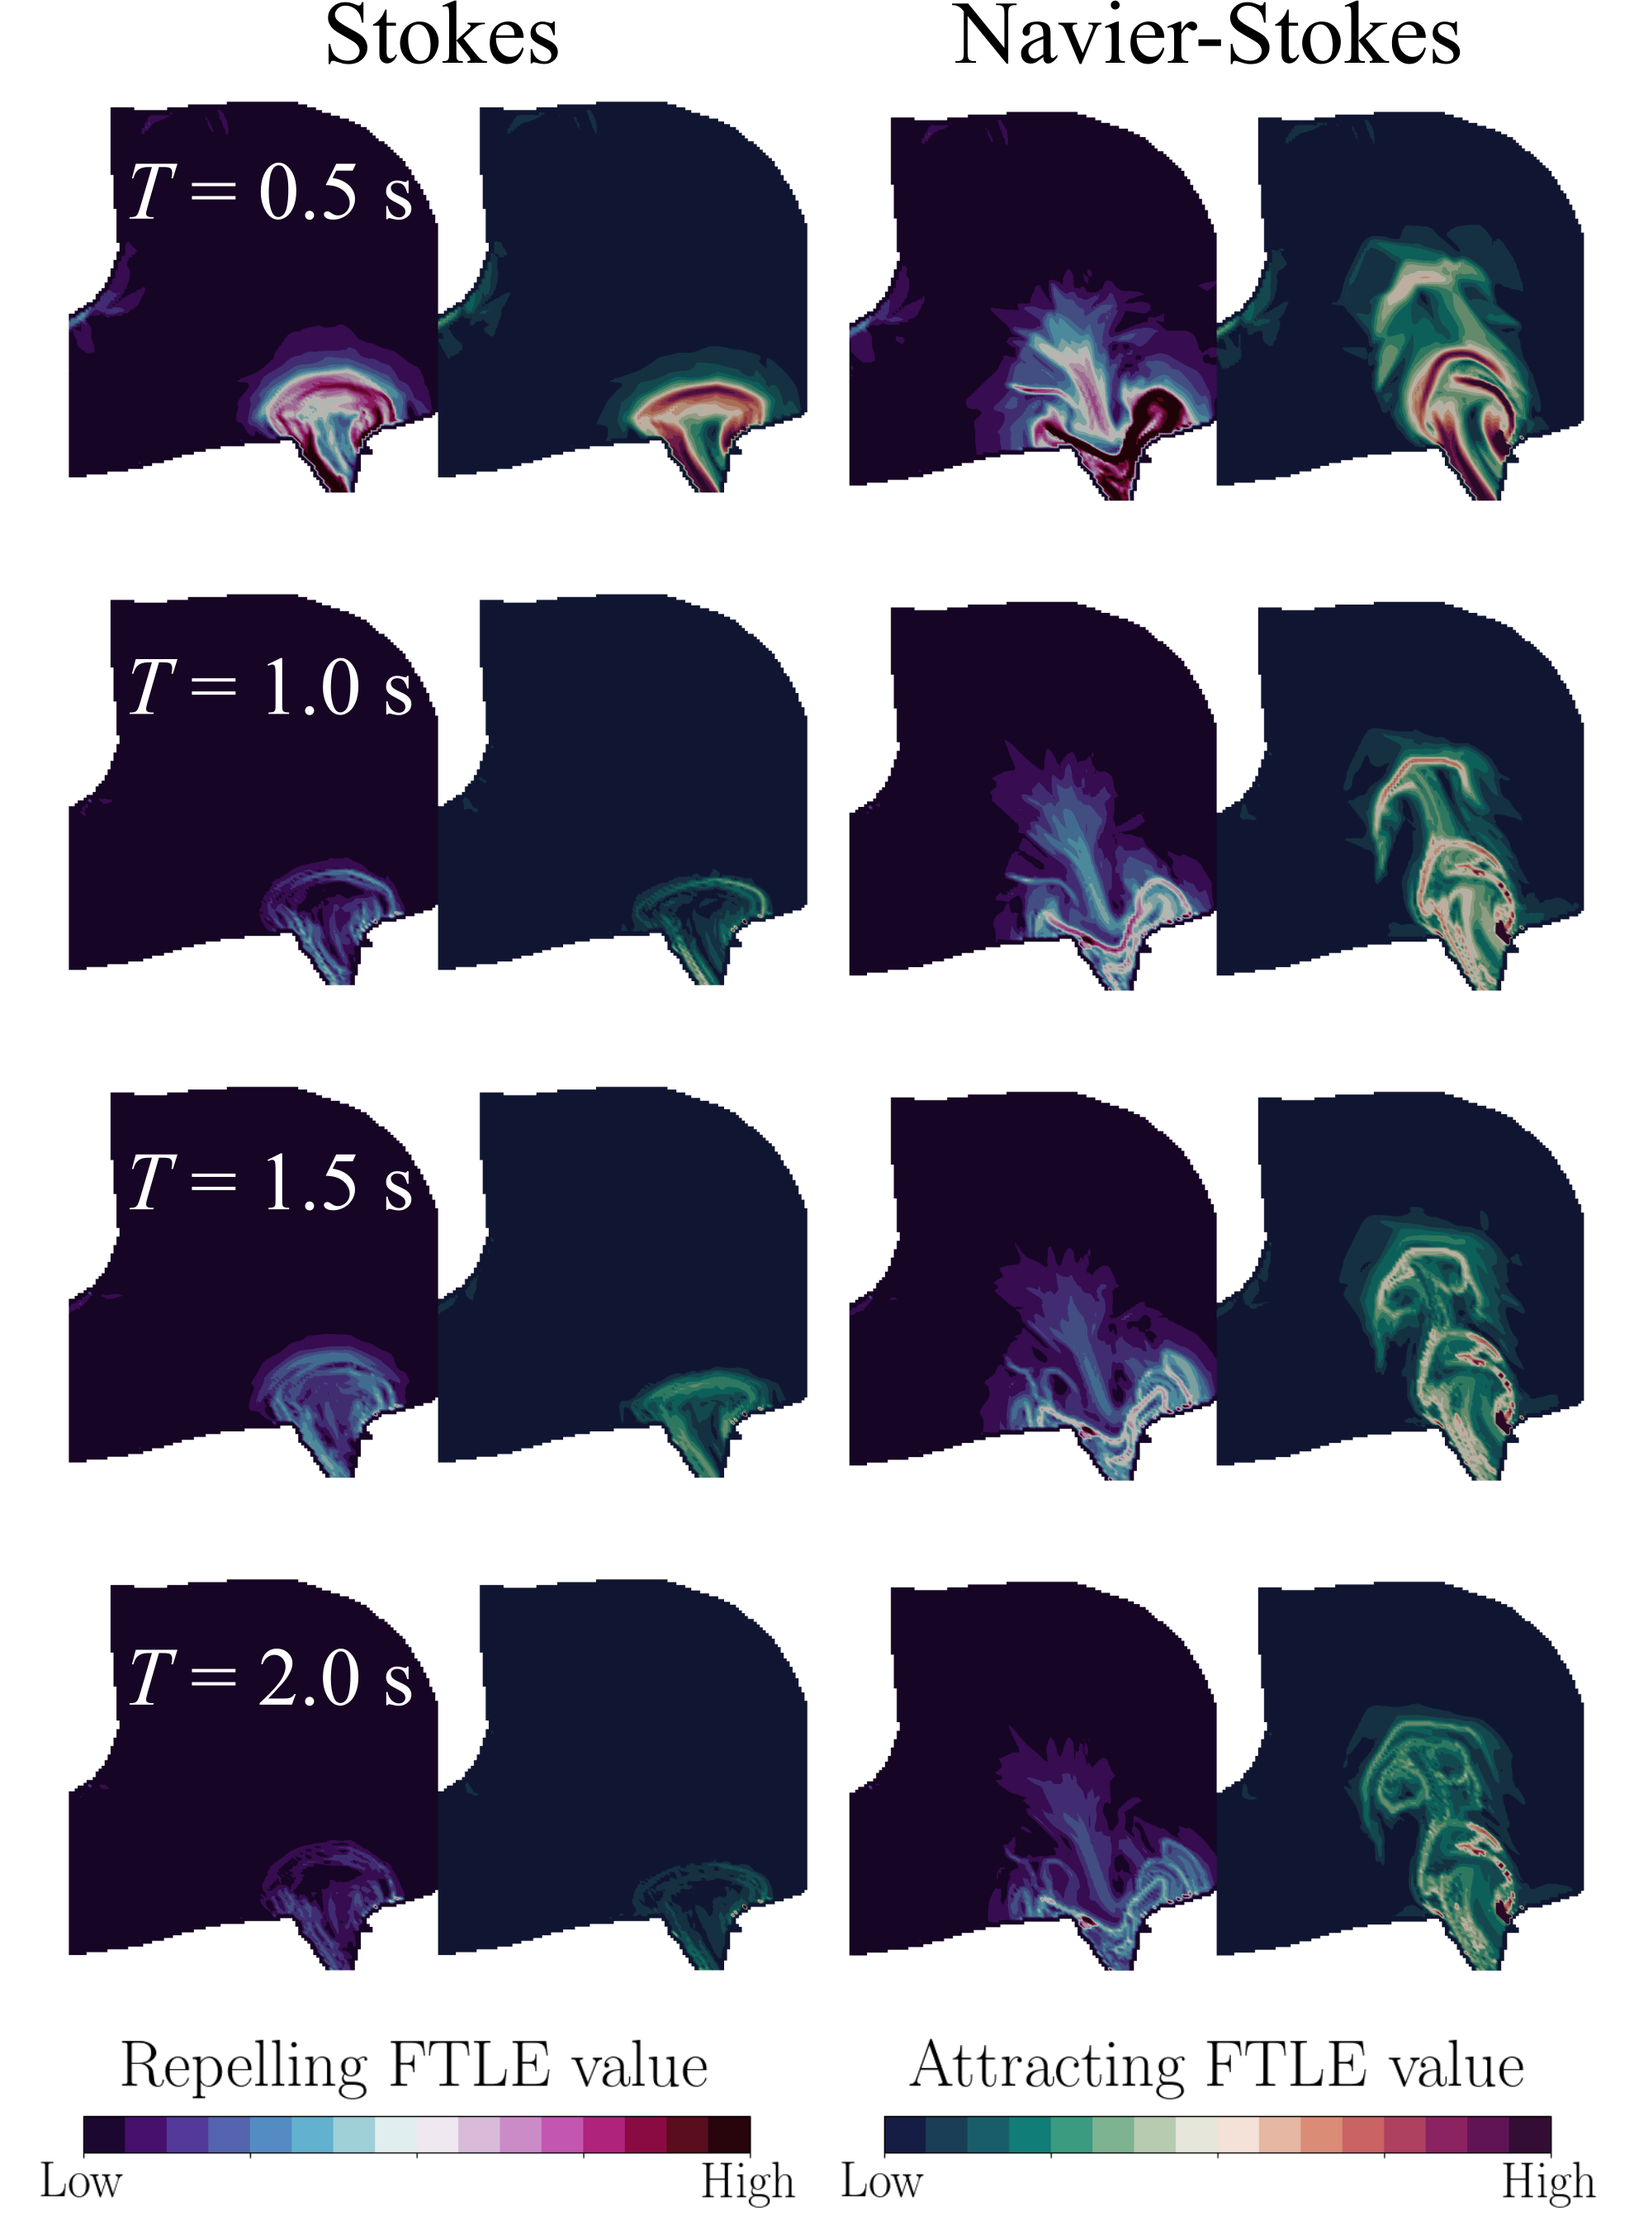
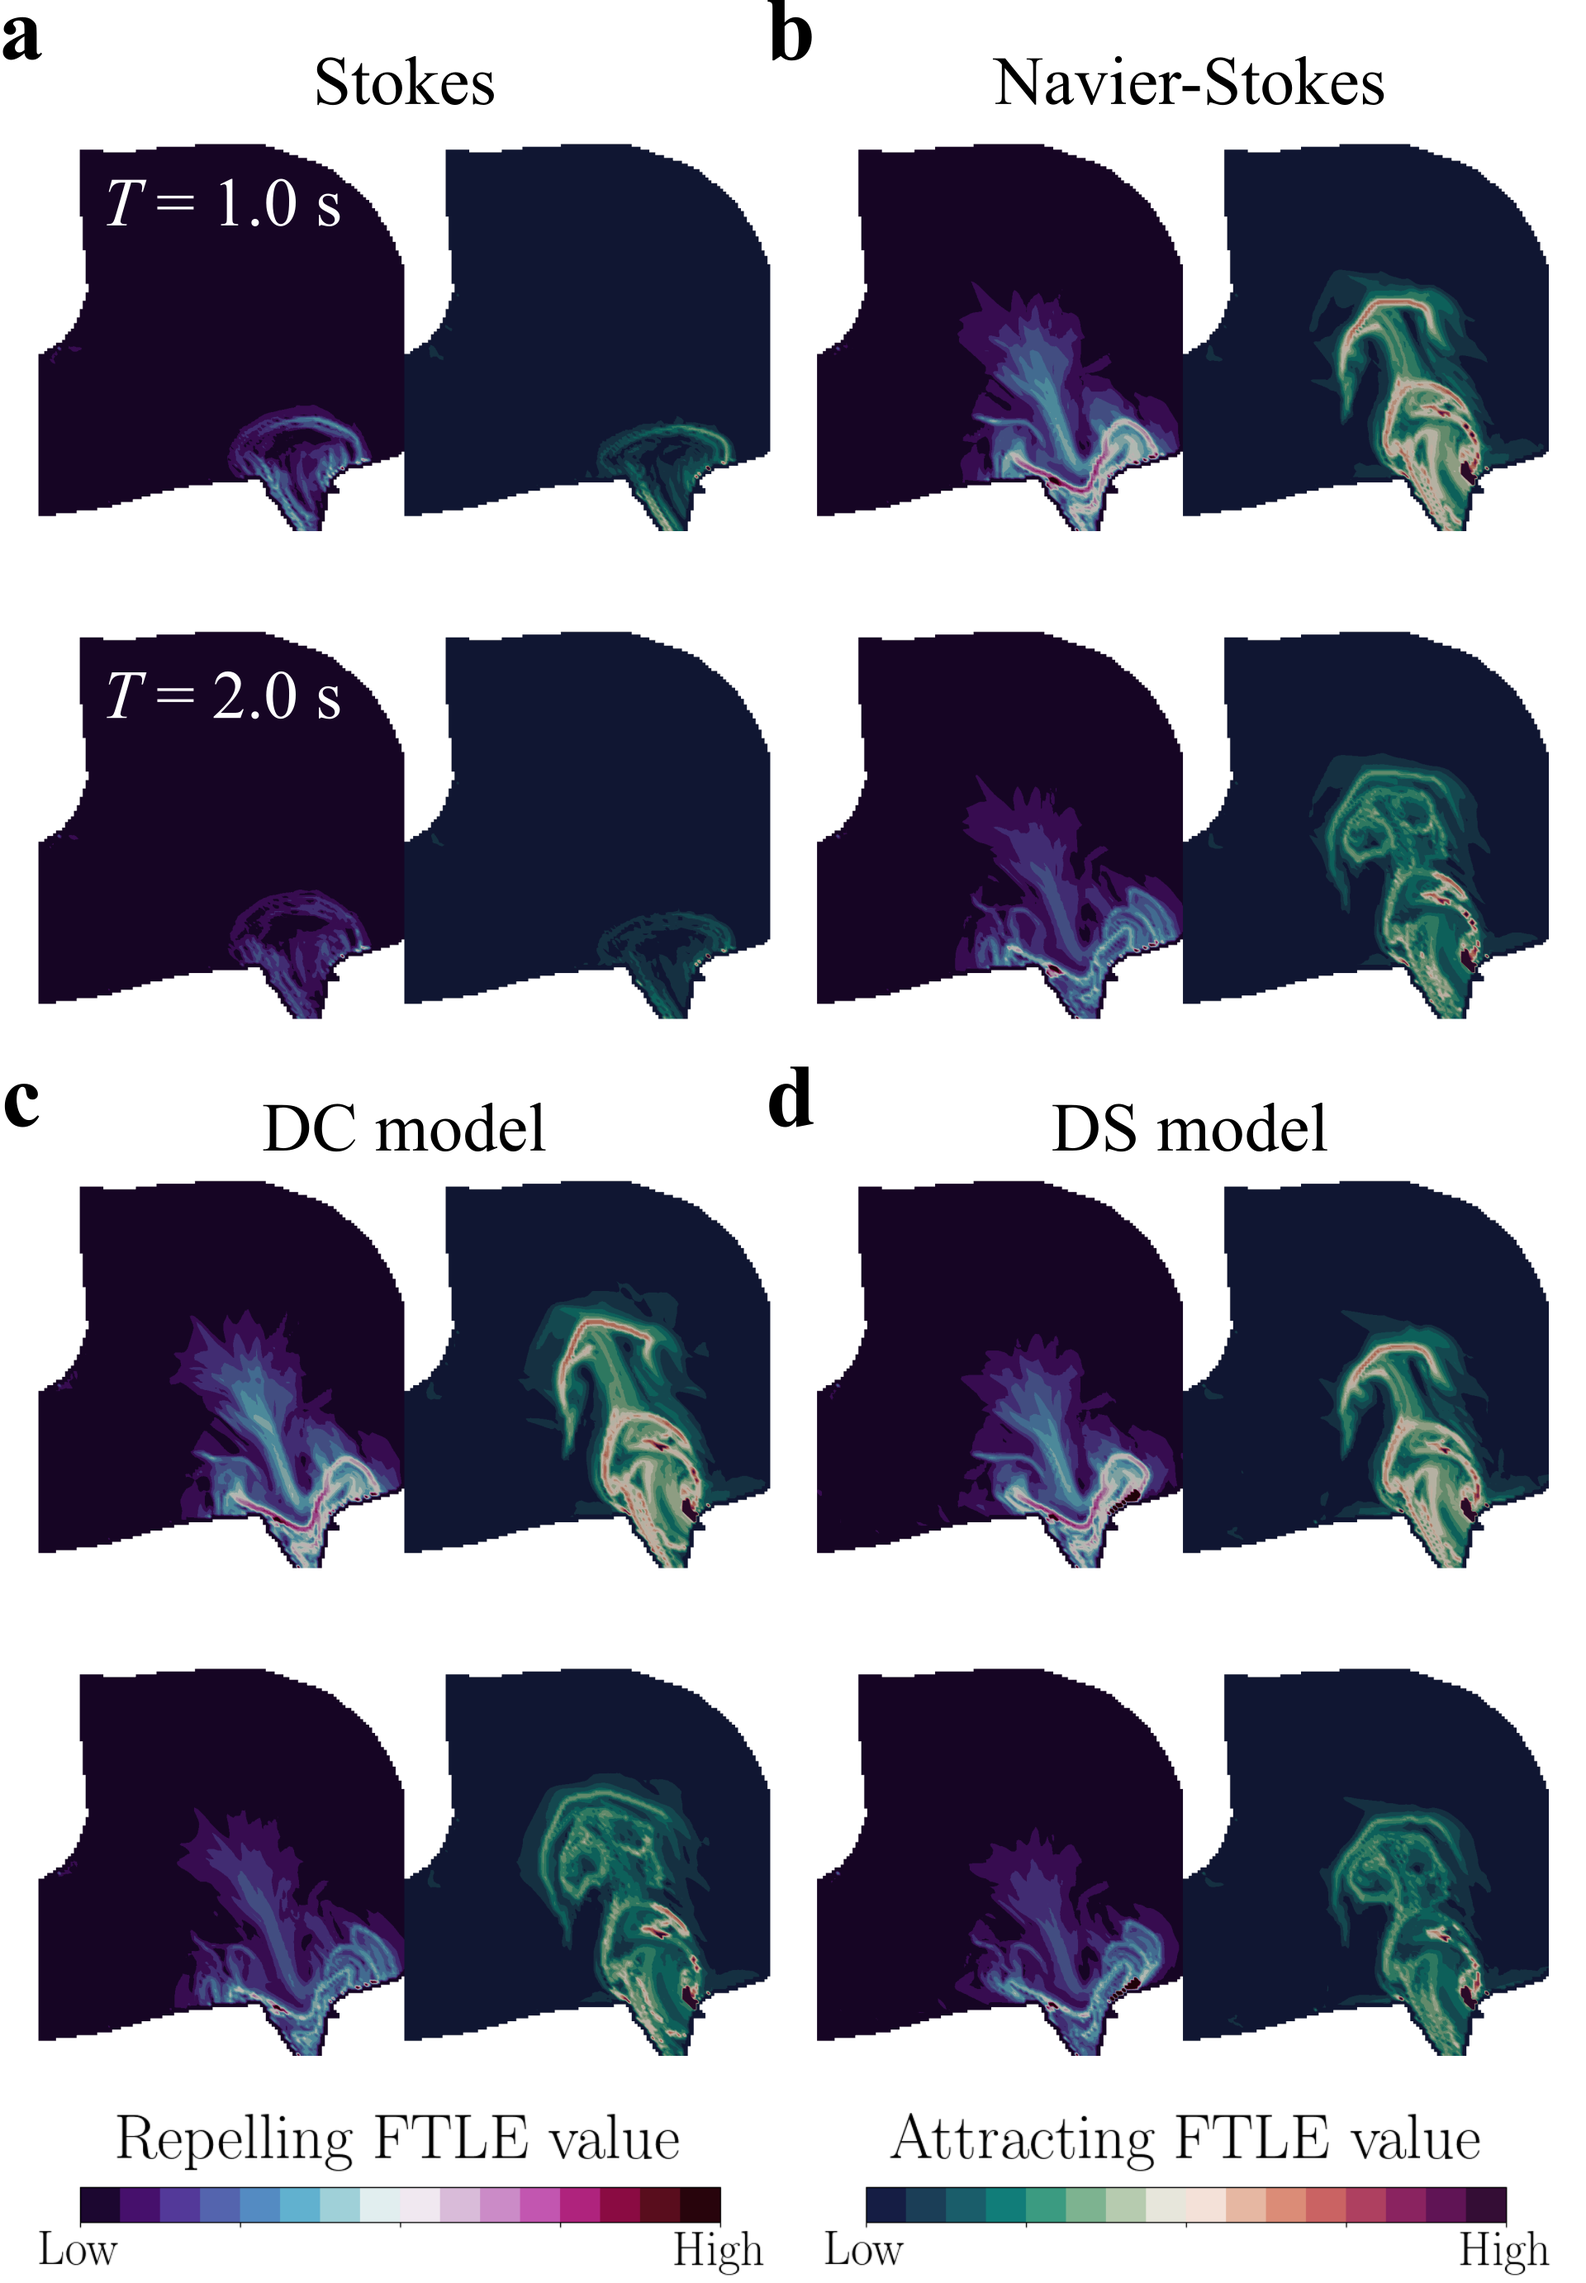
discussion + update FTLE figure

diff --git a/paper/main.tex b/paper/main.tex
@@ -822,21 +822,6 @@ magnitude leads to a lower maximum Reynolds number of 282.
 The peak-to-nadir pressure gradient equals 0.054 mmHg/cm, slightly higher than that predicted
 by the Navier-Stokes equations.
 
-% Eulerian flow features and comparison
-Streamlines generated by integration forward in time at a given time
-instant with the Navier-Stokes velocity demonstrates that CSF flow is more directional at certain time
-instants, while having more sporadic directionality at other times (\Cref{fig:3d_flow_results}).
-Velocity vectors clearly show how the principle of mass conservation results in highest velocities
-through narrow sections like the cerebral aqueduct and interventricular foramina
-(\Cref{fig:3d_flow_results}).
-Velocities in larger compartments, like the lateral ventricles, are several orders 
-of magnitude smaller.
-A close-up inside the third ventricle reveals disparate flow features for 
-the Navier-Stokes and Stokes approximations. The Navier-Stokes CSF velocity vectors
-have vortical patterns indicating a jet forming right above
-the entrance to the cerebral aqueduct (\Cref{fig:3d_flow_results}).
-These vortical patterns are absent in the Stokes solution.
-
 \begin{figure}
     \centering
     \includegraphics[width=\textwidth]{graphics/3d_flow_results.png}
@@ -853,6 +838,21 @@ These vortical patterns are absent in the Stokes solution.
     }
     \label{fig:3d_flow_results}
 \end{figure}
+
+% Eulerian flow features and comparison
+Streamlines generated by integration forward in time at a given time
+instant with the Navier-Stokes velocity demonstrates that CSF flow is more directional at certain time
+instants, while having more sporadic directionality at other times (\Cref{fig:3d_flow_results}).
+Velocity vectors clearly show how the principle of mass conservation results in highest velocities
+through narrow sections like the cerebral aqueduct and interventricular foramina
+(\Cref{fig:3d_flow_results}).
+Velocities in larger compartments, like the lateral ventricles, are several orders 
+of magnitude smaller.
+A close-up inside the third ventricle reveals disparate flow features for 
+the Navier-Stokes and Stokes approximations. The Navier-Stokes CSF velocity vectors
+have vortical patterns indicating a jet forming right above
+the entrance to the cerebral aqueduct (\Cref{fig:3d_flow_results}).
+These vortical patterns are absent in the Stokes solution.
 
 % Comparison of model versions
 When comparing results for the three flow model versions (DSC, DC, DS), most of the computed flow quantities are similar.
@@ -878,7 +878,6 @@ are seeded in the anterior, middle and posterior ventricles, and the three rotat
 structures originate from each of the particle seeding locations. Only seeding particles
 in e.g. the anterior ventricle would result in streamlines almost exclusively confined 
 to the anterior ventricle, with only few particles crossing through the interventricular ducts.
-
 \begin{figure}
     \centering
     \includegraphics[width=\textwidth]{graphics/zfish_flow.png}
@@ -957,30 +956,41 @@ and a new vortex clearly forms during the transition to the next cardiac cycle.
 
 When computing FTLE fields with the unsteady Stokes equations (\Cref{eq:unsteady_stokes_eq}),
 the jet structure in the third ventricle differs greatly compared to the structre
-observed in the Navier-Stokes solution (\Cref{fig:FTLE_human3}).
+observed in the Navier-Stokes solution (\Cref{fig:FTLE_human3}, panels \textbf{a, b}).
 In the backward FTLE field, the lobes that form
 and over time are elevated from the aqueduct entrance in the Navier-Stokes solution are not 
 present in the Stokes solution's FTLE fields. This indicates a stronger stirring effect
 in the Navier-Stokes solution. Similarly, the repelling structures are more
 extensive in the Navier-Stokes FTLE fields.
 
+The FTLE fields computed in the third ventricle with the DC and DS models
+are generally comparable to the DSC results, with the formation of
+a vortex ring (\Cref{fig:FTLE_human3}, panels \textbf{b, c, d}).
+When excluding secretion (DC model), the leading edge of the vortex
+advances slightly faster. Meanwhile, excluding cilia (DS model)
+makes the forward-time FTLE field less attached to the ventricular
+walls close to the aqueductal entrance.
+
 \begin{figure}
     \centering
     \includegraphics[width=0.85\textwidth]{graphics/FTLE_human3.png}
-    \caption{Comparing FTLE fields computed in the human brain ventricles
-    using the Navier-Stokes and Stokes solutions and initial particle position
-    $\xx_0 = \xx(t_0)$ at $t_0=0$, with varying integration times 
-    $T = 0.5, 1.0, 1.5, 2.0$ s. For each model-specific column,
+    \caption{\textbf{a, b.} Comparison of FTLE fields computed in the human brain ventricles
+    using the Stokes (\textbf{a}) and Navier-Stokes (\textbf{b})
+    solutions with initial particle position
+    $\xx_0 = \xx(t_0)$ at $t_0=0$ and integration times 
+    $T = 1.0, 2.0$ s. 
+    \textbf{c, d.} Comparison of FTLE fields computed in the human brain ventricles
+    using the Navier-Stokes solution of the DC (excluded secretion, panel \textbf{c})
+    and DS (excluded cilia, panel \textbf{d}) models with $\xx_0 = \xx(t_0)$ at $t_0=0$
+    and integration times $T = 1.0, 2.0$ s.
+    In all subpanels, for each model-specific column,
     forward-time FTLE are displayed on the left and backward-time FTLE on
-    the right. The FTLE fields were computed in two
-    boxed sections (see \Cref{fig:FTLE_human1}):
-    (i) the posterior end of the third
-    ventricle, including the superior most part of the aqueduct, and
-    (ii) the anterior part of the lateral ventricles, including
-    the interventricular foramina. The FTLE fields are displayed
-    in sagittal and coronal slices. The lower colorbar limit
-    is zero in all slices, while the higher colorbar limit is
-    an FTLE value of 2.5 and 5.0 for the IVF and 3V slices, respectively.}
+    the right. The FTLE fields were computed in a
+    boxed section in the posterior end of the third
+    ventricle, including the superior most part of the aqueduct
+    (see \Cref{fig:FTLE_human1} for the exact location). 
+    The FTLE fields are displayed in a sagittal slice. The lower colorbar limits
+    are zero, while the higher colorbar limits are  an FTLE value of 5.0.}
     \label{fig:FTLE_human3}
 \end{figure}
 
@@ -1089,7 +1099,7 @@ in terms of macroscopic flow quantities like stroke volume.
 There were however minor differences in the FTLE field structures computed with the DS model compared
 to both DC and DSC, with the lobe structures near the aqueduct
 entrance more attached to the 3V wall when including cilia (DC/DSC),
-indicating that cilia alter the near-wall flow (\Cref{fig:FTLE_human3}).
+indicating that cilia alter the near-wall flow (\Cref{fig:FTLE_human3}, panels \textbf{b, c, d}).
 This finding compares well with the computational study
 by Siyahhan~\emph{et al.}~\cite{Siyahhan2014FlowVentricles},
 whose results showed only a minor effect of cilia on near-wall flow in the lateral
@@ -1110,9 +1120,13 @@ such as in the inferior and occipital horns of the lateral ventricles.
 
 The constant-in-time CSF secretion we imposed had little impact on the
 computed flow quantities, apart from generating a net outward flow from the
-ventricular system. In terms of local flow features and FTLE fields,
+ventricular system. In terms of local flow features,
 these were largely unaffected when disregarding CSF secretion (DC model)
-compared to the DSC model (\Cref{fig:FTLE_human3}).
+compared to the DSC model. In the FTLE fields, we observe a small
+difference in the location of the leading edge of the vortex ring
+when disregarding secretion (\Cref{fig:FTLE_human3}, panels \textbf{b, c, d}).
+This may result from the secretion increasing the total CSF volume
+flowing through the system, leading to a faster development of the vortex ring.
 
 \subsection{Model validation with experimental data of brain deformations and ventricular CSF flow}
 To ensure that the CSF flow we modeled to be a result of cardiovascular pulsatility 
